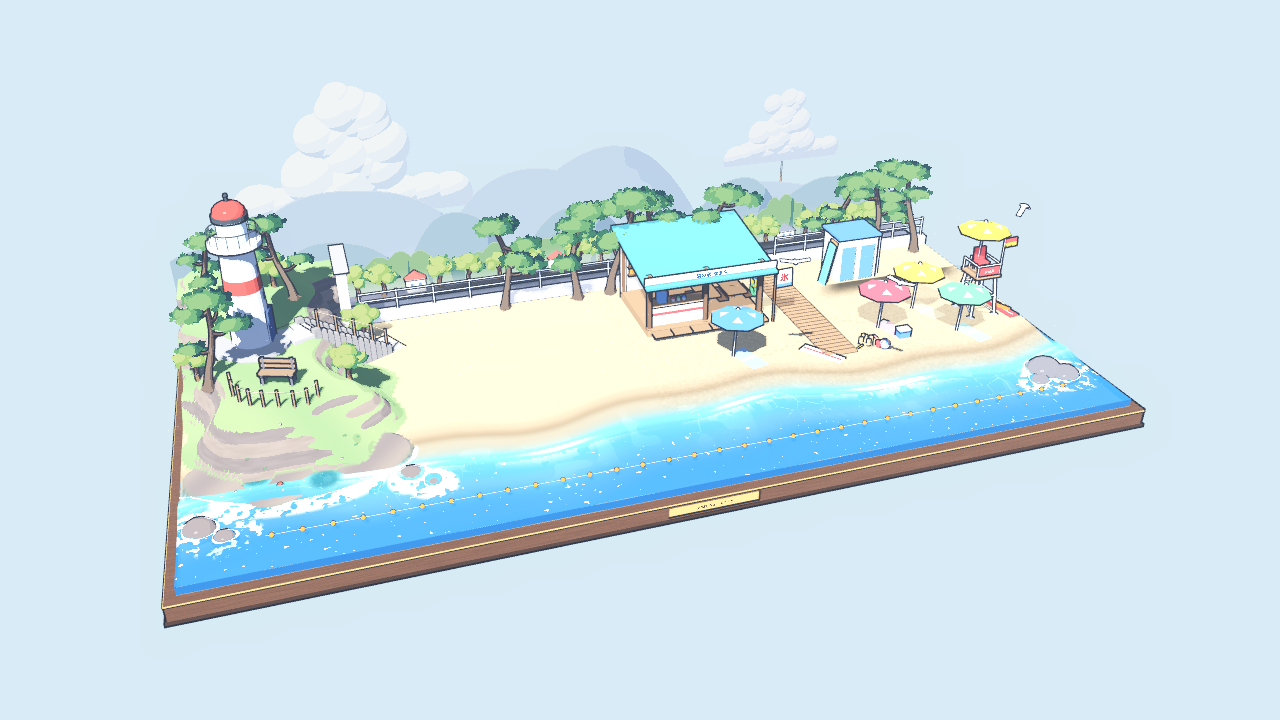
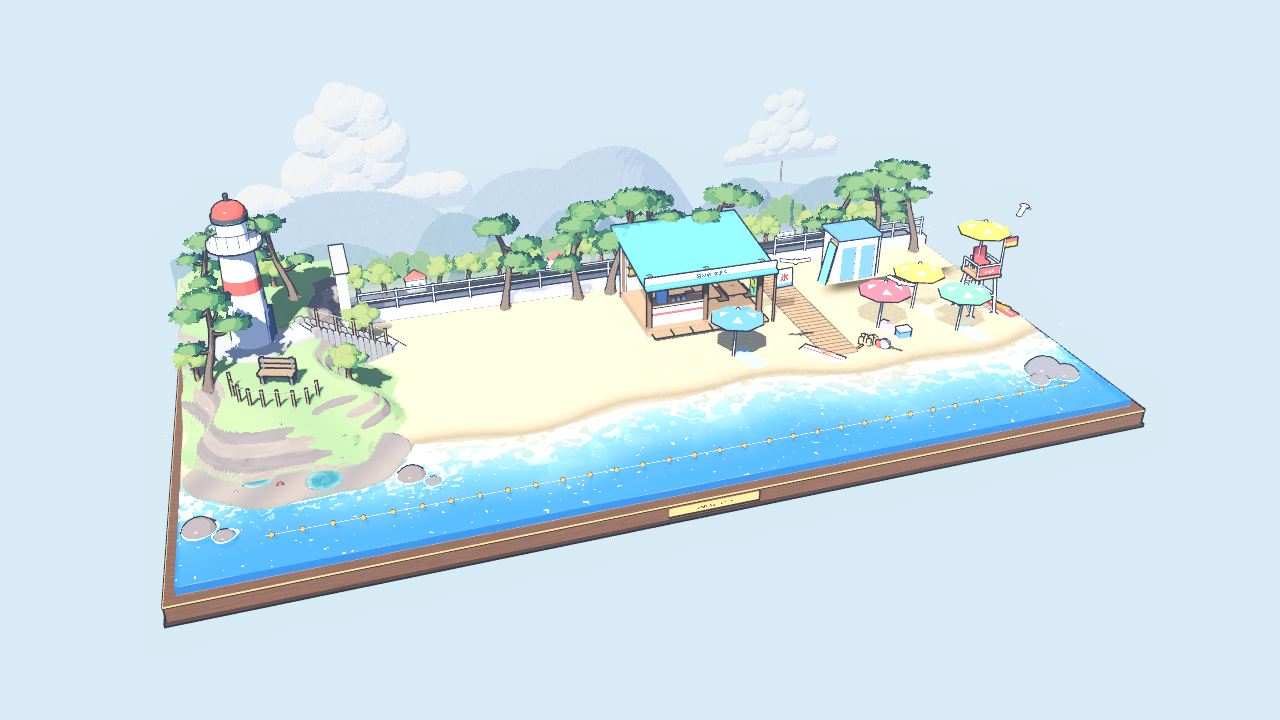
Backscene: paint the flats with brushwork
Poster-colour brush strokes that run down the slopes and break the line
between light and shade into a dry-brush edge, small variations of value
and warmth per stroke, a feathered skyline, valley mist laid in stepped
dabs, strokes curling round the cloud puffs, and a fine paper grain
under everything, so the flats read as painted rather than printed.

Claude-Session: https://claude.ai/code/session_01JuNQs8VxyuqxoqKQNTs1C5

diff --git a/docs/konbini-diorama/README.md b/docs/konbini-diorama/README.md
@@ -82,7 +82,7 @@
 - ไม่มีรอยต่อ ถนน กำแพง และราวกั้นวางยาวชิ้นเดียวตั้งแต่ปากอุโมงค์ถึงปลายหาด ทะเลกับน้ำซัดหาดเป็นผิวเดียวคลุมทั้งสองครึ่ง แนวน้ำและจังหวะคลื่นเดียวกัน หน้าตัดตรงรอยต่อถูกตัดออก แนวทุ่นเขตว่ายน้ำเป็นเส้นเดียวยาวต่อเนื่องจากหน้าแหลมถึงปลายหาด
 - แต่ละบล็อกยังสร้างด้วยโค้ดเดิมในพิกัดของตัวเอง (โหมด `joined`) ใต้โหนดที่เลื่อนไปครึ่งของมัน บล็อกเดี่ยวยังเปิดแยกได้เหมือนเดิม
 - กล้องเลื่อนและซูมออกได้ไกลขึ้นให้พอกับความยาว
-- ฉากหลังหลอกตา (`scripts/konbini_backdrop.gd`, `shaders/konbini_flat.gdshader`): แผ่นบางๆ ทาสีตั้งเรียงกันบนชั้นที่ต่อออกไปด้านหลังฐาน ทำตามวิธีของฉากหลังโมเดลรถไฟ ฉากหลังอนิเมะ และเกมสไตล์การ์ตูน: มีไม่กี่ชั้น แต่ละชั้นเป็นเงาภูเขาเรียบๆ ใช้แค่สองโทน ยิ่งไกลยิ่งคอนทราสต์ต่ำและกลืนเข้าสีฟ้า มีหมอกสว่างที่ตีนเขาแต่ละชั้นแยกชั้นออกจากกัน ไกลไม่มีเส้นขอบ เมฆหน้าร้อนห้อยบนก้าน และแถวต้นไม้จริงกับหน้าบ้านแบบนูนต่ำวางหน้าแผ่นเพื่อซ่อนรอยต่อจาก 3 มิติไป 2 มิติ มองจากด้านข้างจะเห็นว่าเป็นแค่แผ่นไม้อัดมีขาค้ำ
+- ฉากหลังหลอกตา (`scripts/konbini_backdrop.gd`, `shaders/konbini_flat.gdshader`): แผ่นบางๆ ทาสีตั้งเรียงกันบนชั้นที่ต่อออกไปด้านหลังฐาน ทำตามวิธีของฉากหลังโมเดลรถไฟ ฉากหลังอนิเมะ และเกมสไตล์การ์ตูน: มีไม่กี่ชั้น แต่ละชั้นเป็นเงาภูเขาเรียบๆ ใช้แค่สองโทน ยิ่งไกลยิ่งคอนทราสต์ต่ำและกลืนเข้าสีฟ้า มีหมอกสว่างที่ตีนเขาแต่ละชั้นแยกชั้นออกจากกัน ไกลไม่มีเส้นขอบ ลงสีแบบภาพวาดมือ (ลายพู่กันตามแนวลาด ขอบแสงเงาแบบพู่กันแห้ง สันเขาขอบไม่เรียบ หมอกเป็นปื้นพู่กัน และลายกระดาษ) เมฆหน้าร้อนห้อยบนก้าน และแถวต้นไม้จริงกับหน้าบ้านแบบนูนต่ำวางหน้าแผ่นเพื่อซ่อนรอยต่อจาก 3 มิติไป 2 มิติ มองจากด้านข้างจะเห็นว่าเป็นแค่แผ่นไม้อัดมีขาค้ำ
 
 ![ทั้งชายฝั่ง](coast-view-1.png)
 ![รอยต่อระหว่างแหลมกับหาด](coast-view-4.png)

diff --git a/.claude/skills/godot-diorama-scene/references/atmosphere.md b/.claude/skills/godot-diorama-scene/references/atmosphere.md
@@ -92,3 +92,7 @@ version follows:
 - **Let the real sky be the sky** (no sky board with an edge). Summer clouds can be flats hung on rods:
   puffs on a flat base, bright on top, blue-grey underneath.
 - Keep the horizon roughly at the eye height of the main camera views.
+- **Painted, not printed** (the user chose this over baking 3D mountains or using painted images): brush
+  strokes as noise stretched along the slope that also break the light/shade line into a dry-brush edge,
+  each stroke a touch lighter/darker and warmer/cooler, a feathered skyline, mist laid in stepped
+  horizontal dabs, strokes curling round cloud puffs, and a fine paper grain under everything.
